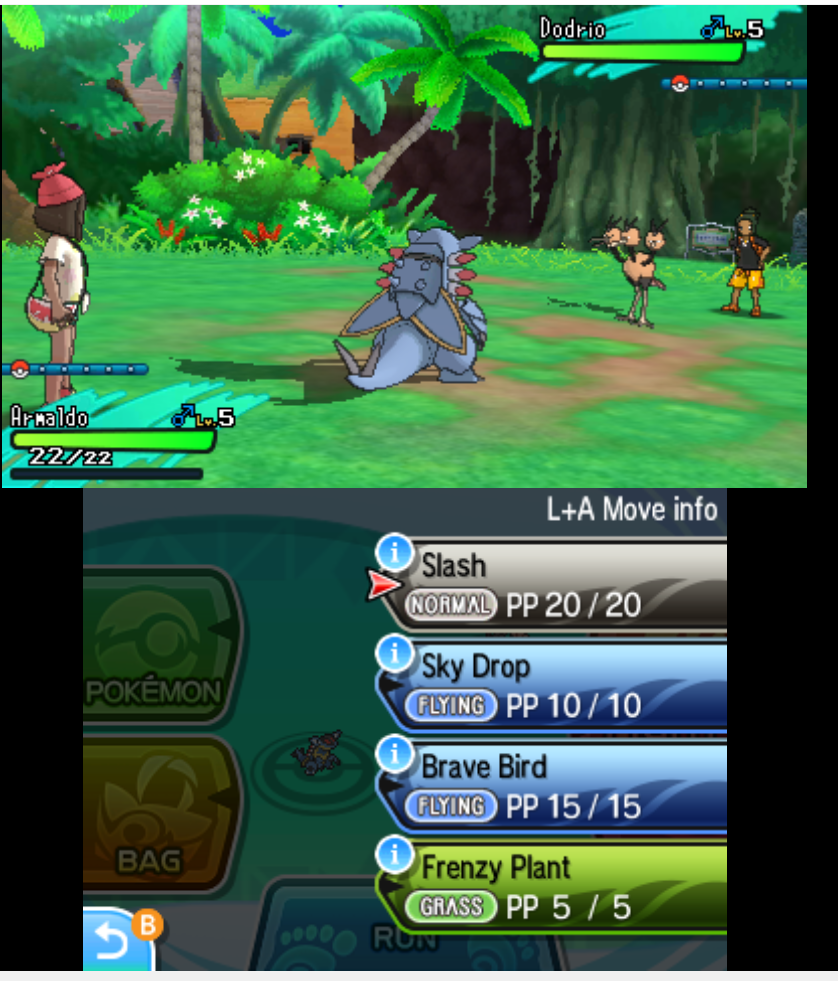
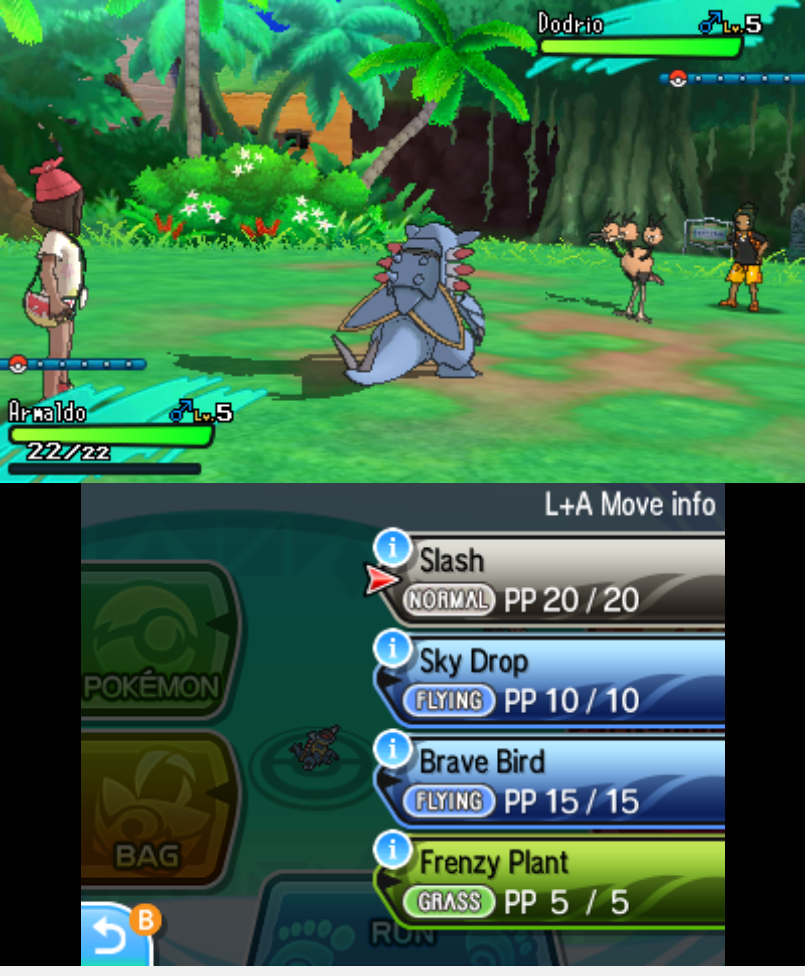
put sm screenshots in screenshots.md, crop out black borders

diff --git a/docs/screenshots.md b/docs/screenshots.md
@@ -60,7 +60,11 @@ Most screenshots below were borrowed (with permission) from Dabomstew's original
 ![a horde battle with three Natu, one Emboar, and one Spritzee. They are all level 3."]({{ site.baseurl }}/assets/images/screenshots/g6_horde2.jpeg "Odd fellows"){:.screenshot}
 ![a horde battle with four Spinda, and one one Emboar, and one Carnivine. They are all level 3."]({{ site.baseurl }}/assets/images/screenshots/g6_horde1.jpeg "Spinda party in Petalburg forest, with one extra carnivorous plant."){:.screenshot}
 
-
 ### Generation 7 (S/M/US/UM)
 
-// TODO
+![the SM starters are Pansage, Dodrio, and Armaldo. They are named as grass, normal, and rock-type, respectively.]({{ site.baseurl }}/assets/images/screenshots/g7_starter.png "Not the usual type triangle."){:.screenshot}
+![A battle against Hau. Hau has a level 5 Dodrio. The player has a level 5 Armaldo. The armaldo knows slash, sky drop, brave bird, and frenzy plant.]({{ site.baseurl }}/assets/images/screenshots/g7_rival.png "And Hau picked the Dodrio!"){:.screenshot}
+![a level 8 Reshiram]({{ site.baseurl }}/assets/images/screenshots/g7_reshiram.png "A legendary in every grass!"){:.screenshot}
+![a shop with Griseous Orb, and other odd items. The Griseous orb costs 0¥.]({{ site.baseurl }}/assets/images/screenshots/g7_shop.png "What a bargain! (the Randomizer also has an option to balance shop prizes)"){:.screenshot}
+![battle versus totem floatzel]({{ site.baseurl }}/assets/images/screenshots/g7_totem2.png "Expected another mustelid to be here"){:.screenshot}
+![battle versus two masquerains, at level 7 and 8]({{ site.baseurl }}/assets/images/screenshots/g7_sos.png "SOS! SOS! Please help me, other Masquerain!!"){:.screenshot}
